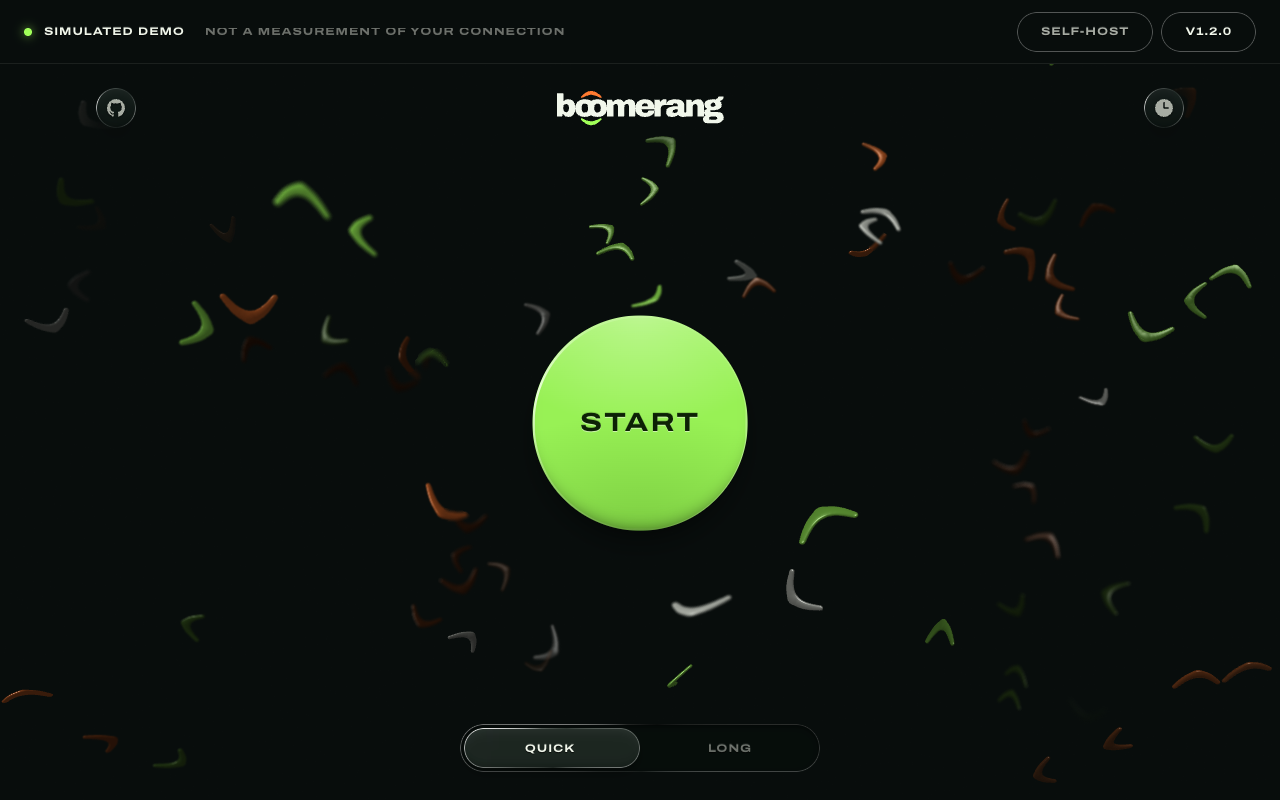
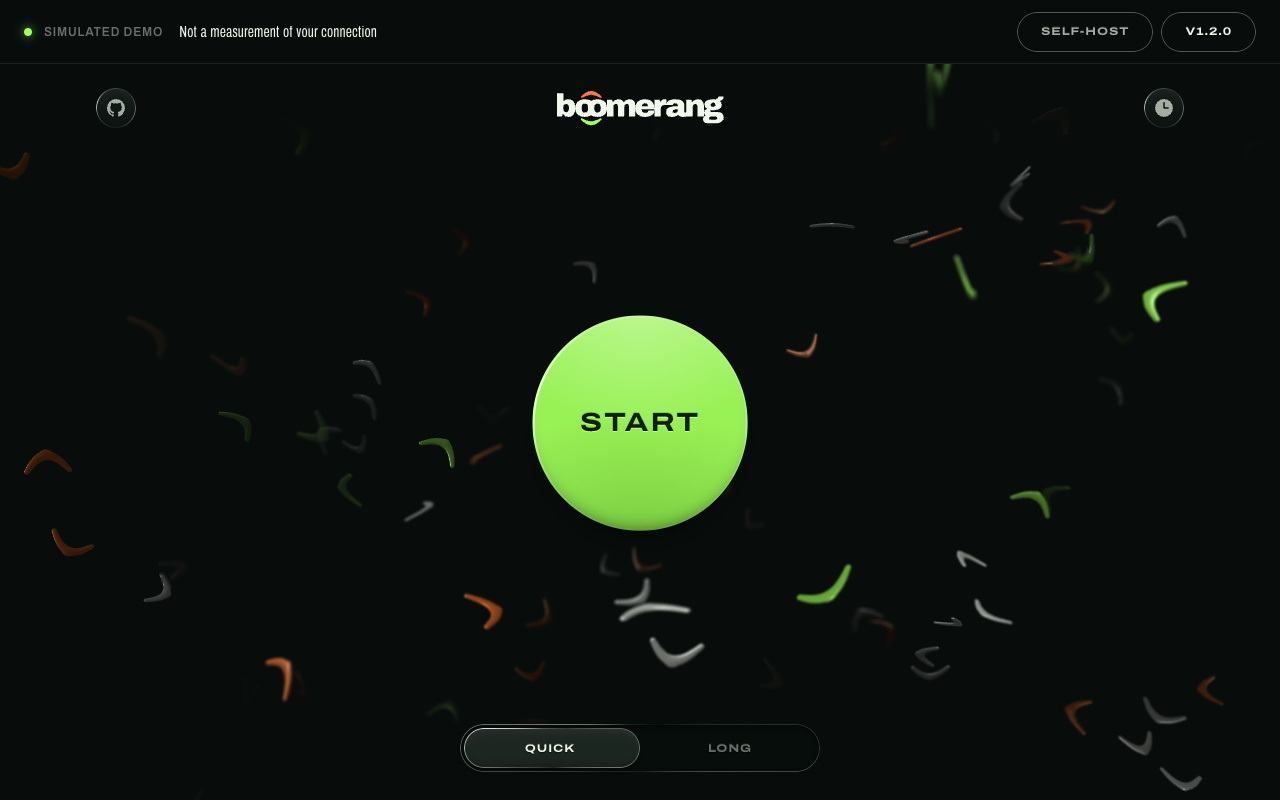
fix: set the demo note as History's empty state pairs its words
Simulated demo is a label in the dim small capitals, and the line beside
it is a value in the condensed face, the two styles History's empty
state pairs.

diff --git a/site/routes/+page.svelte b/site/routes/+page.svelte
@@ -9,7 +9,7 @@
   import '../app.css';
   import { onMount } from 'svelte';
   import { installIcons } from '../../src/lib/ui/logo';
-  import { KEY_LABEL } from '../../src/lib/ui/classes';
+  import { KEY_LABEL, LABEL, VALUE } from '../../src/lib/ui/classes';
 
   const SITE = 'https://boomerang.fernando.is';
   const GUIDE = 'https://github.com/fmaclen/boomerang/blob/master/docs/self-hosting.md';
@@ -66,13 +66,14 @@
 </svelte:head>
 
 <div class="flex h-dvh flex-col">
-  <!-- The bar is the app's own chrome: the note in its key labels, lit and dim like Quick and Long, and the links as its secondary keys. -->
+  <!-- The bar is the app's own chrome: the note in the pair History's empty state uses, a
+       label over a value set side by side, and the links as its secondary keys. -->
   <header class="flex h-16 flex-none items-center justify-between gap-4 border-b border-ink/8 px-4 sm:px-6">
     <p class="m-0 flex min-w-0 items-center gap-3" data-testid="demo-note">
       <span class="size-2 flex-none rounded-full bg-lime shadow-[0_0_10px_rgba(161,255,89,0.8)]" aria-hidden="true"></span>
       <!-- On a phone it stacks on two lines, to leave the keys their room. -->
-      <span class="flex-none text-ink max-sm:w-min max-sm:leading-[1.5] {TRIM} {KEY_LABEL}">Simulated demo</span>
-      <span class="ml-2 hidden truncate text-ink-3 md:block {TRIM} {KEY_LABEL}">Not a measurement of your connection</span>
+      <span class="flex-none whitespace-nowrap text-ink-3 max-sm:w-min max-sm:whitespace-normal {TRIM} {LABEL}">Simulated demo</span>
+      <span class="ml-1 hidden truncate md:block {TRIM} {VALUE}">Not a measurement of your connection</span>
     </p>
     <nav class="flex flex-none items-center gap-2" aria-label="Boomerang">
       <a class={KEY} href={GUIDE}><span class="{TRIM} {KEY_LABEL}">Self-host</span></a>
